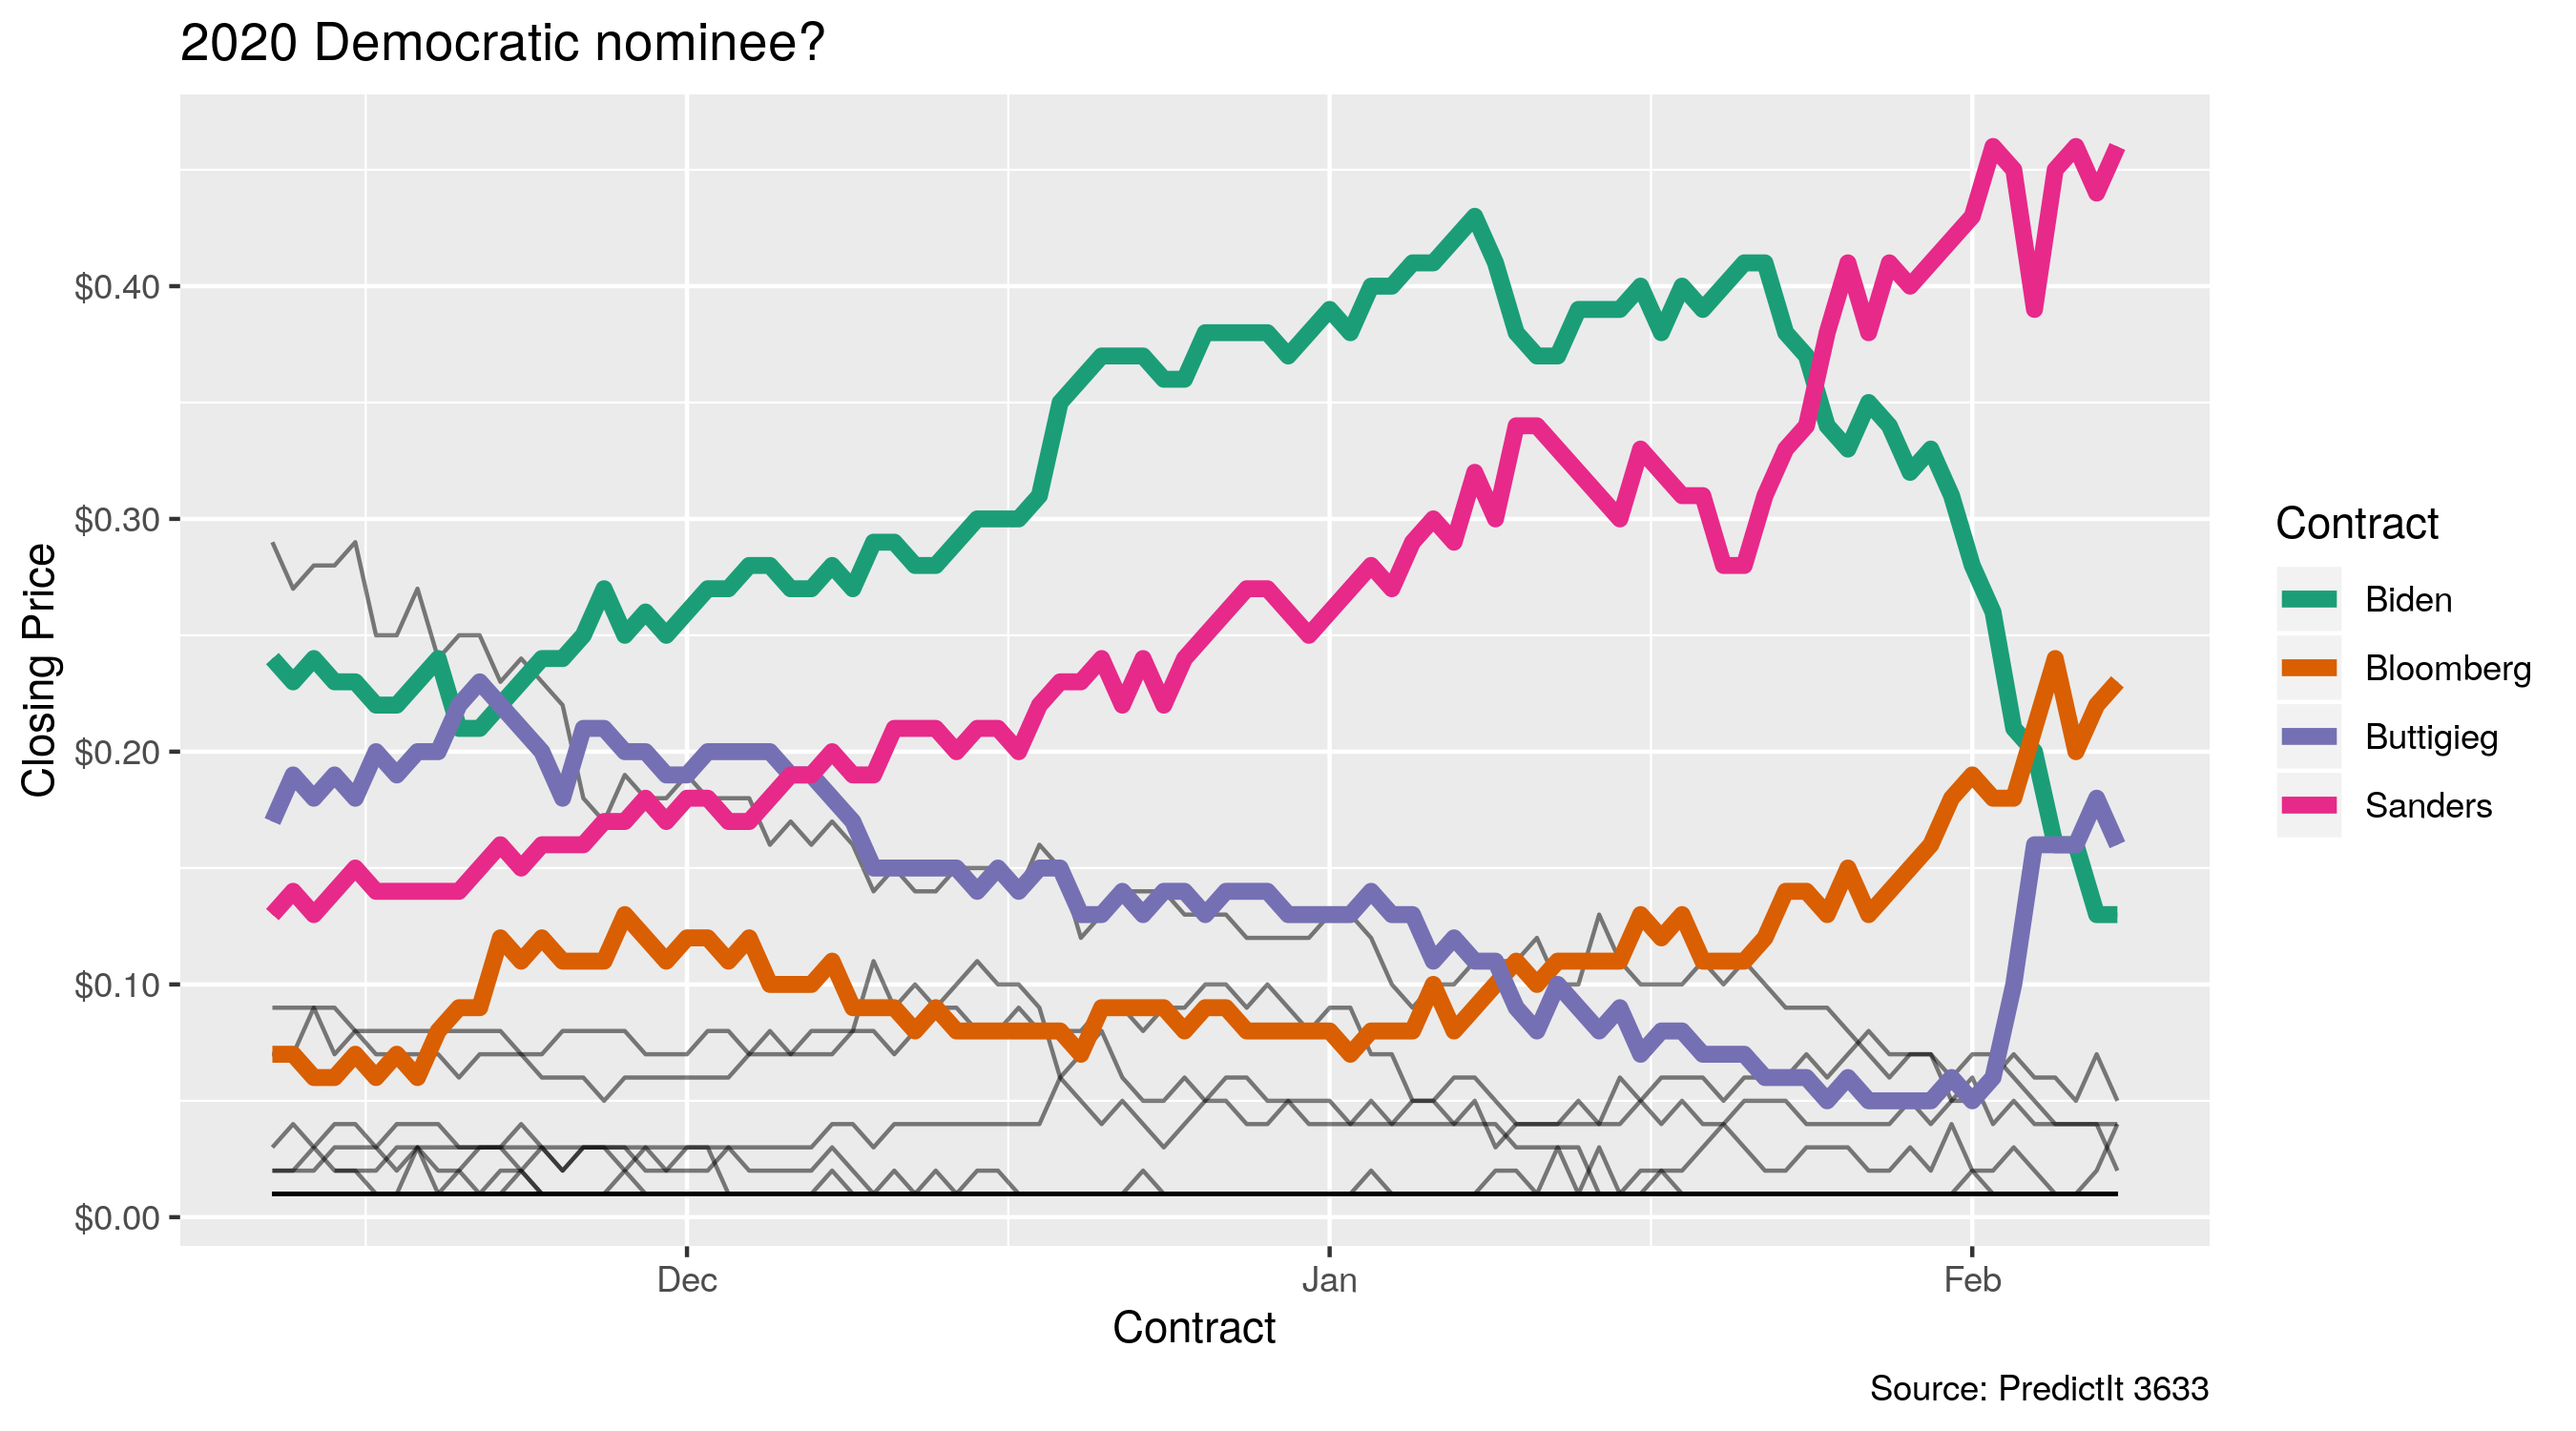
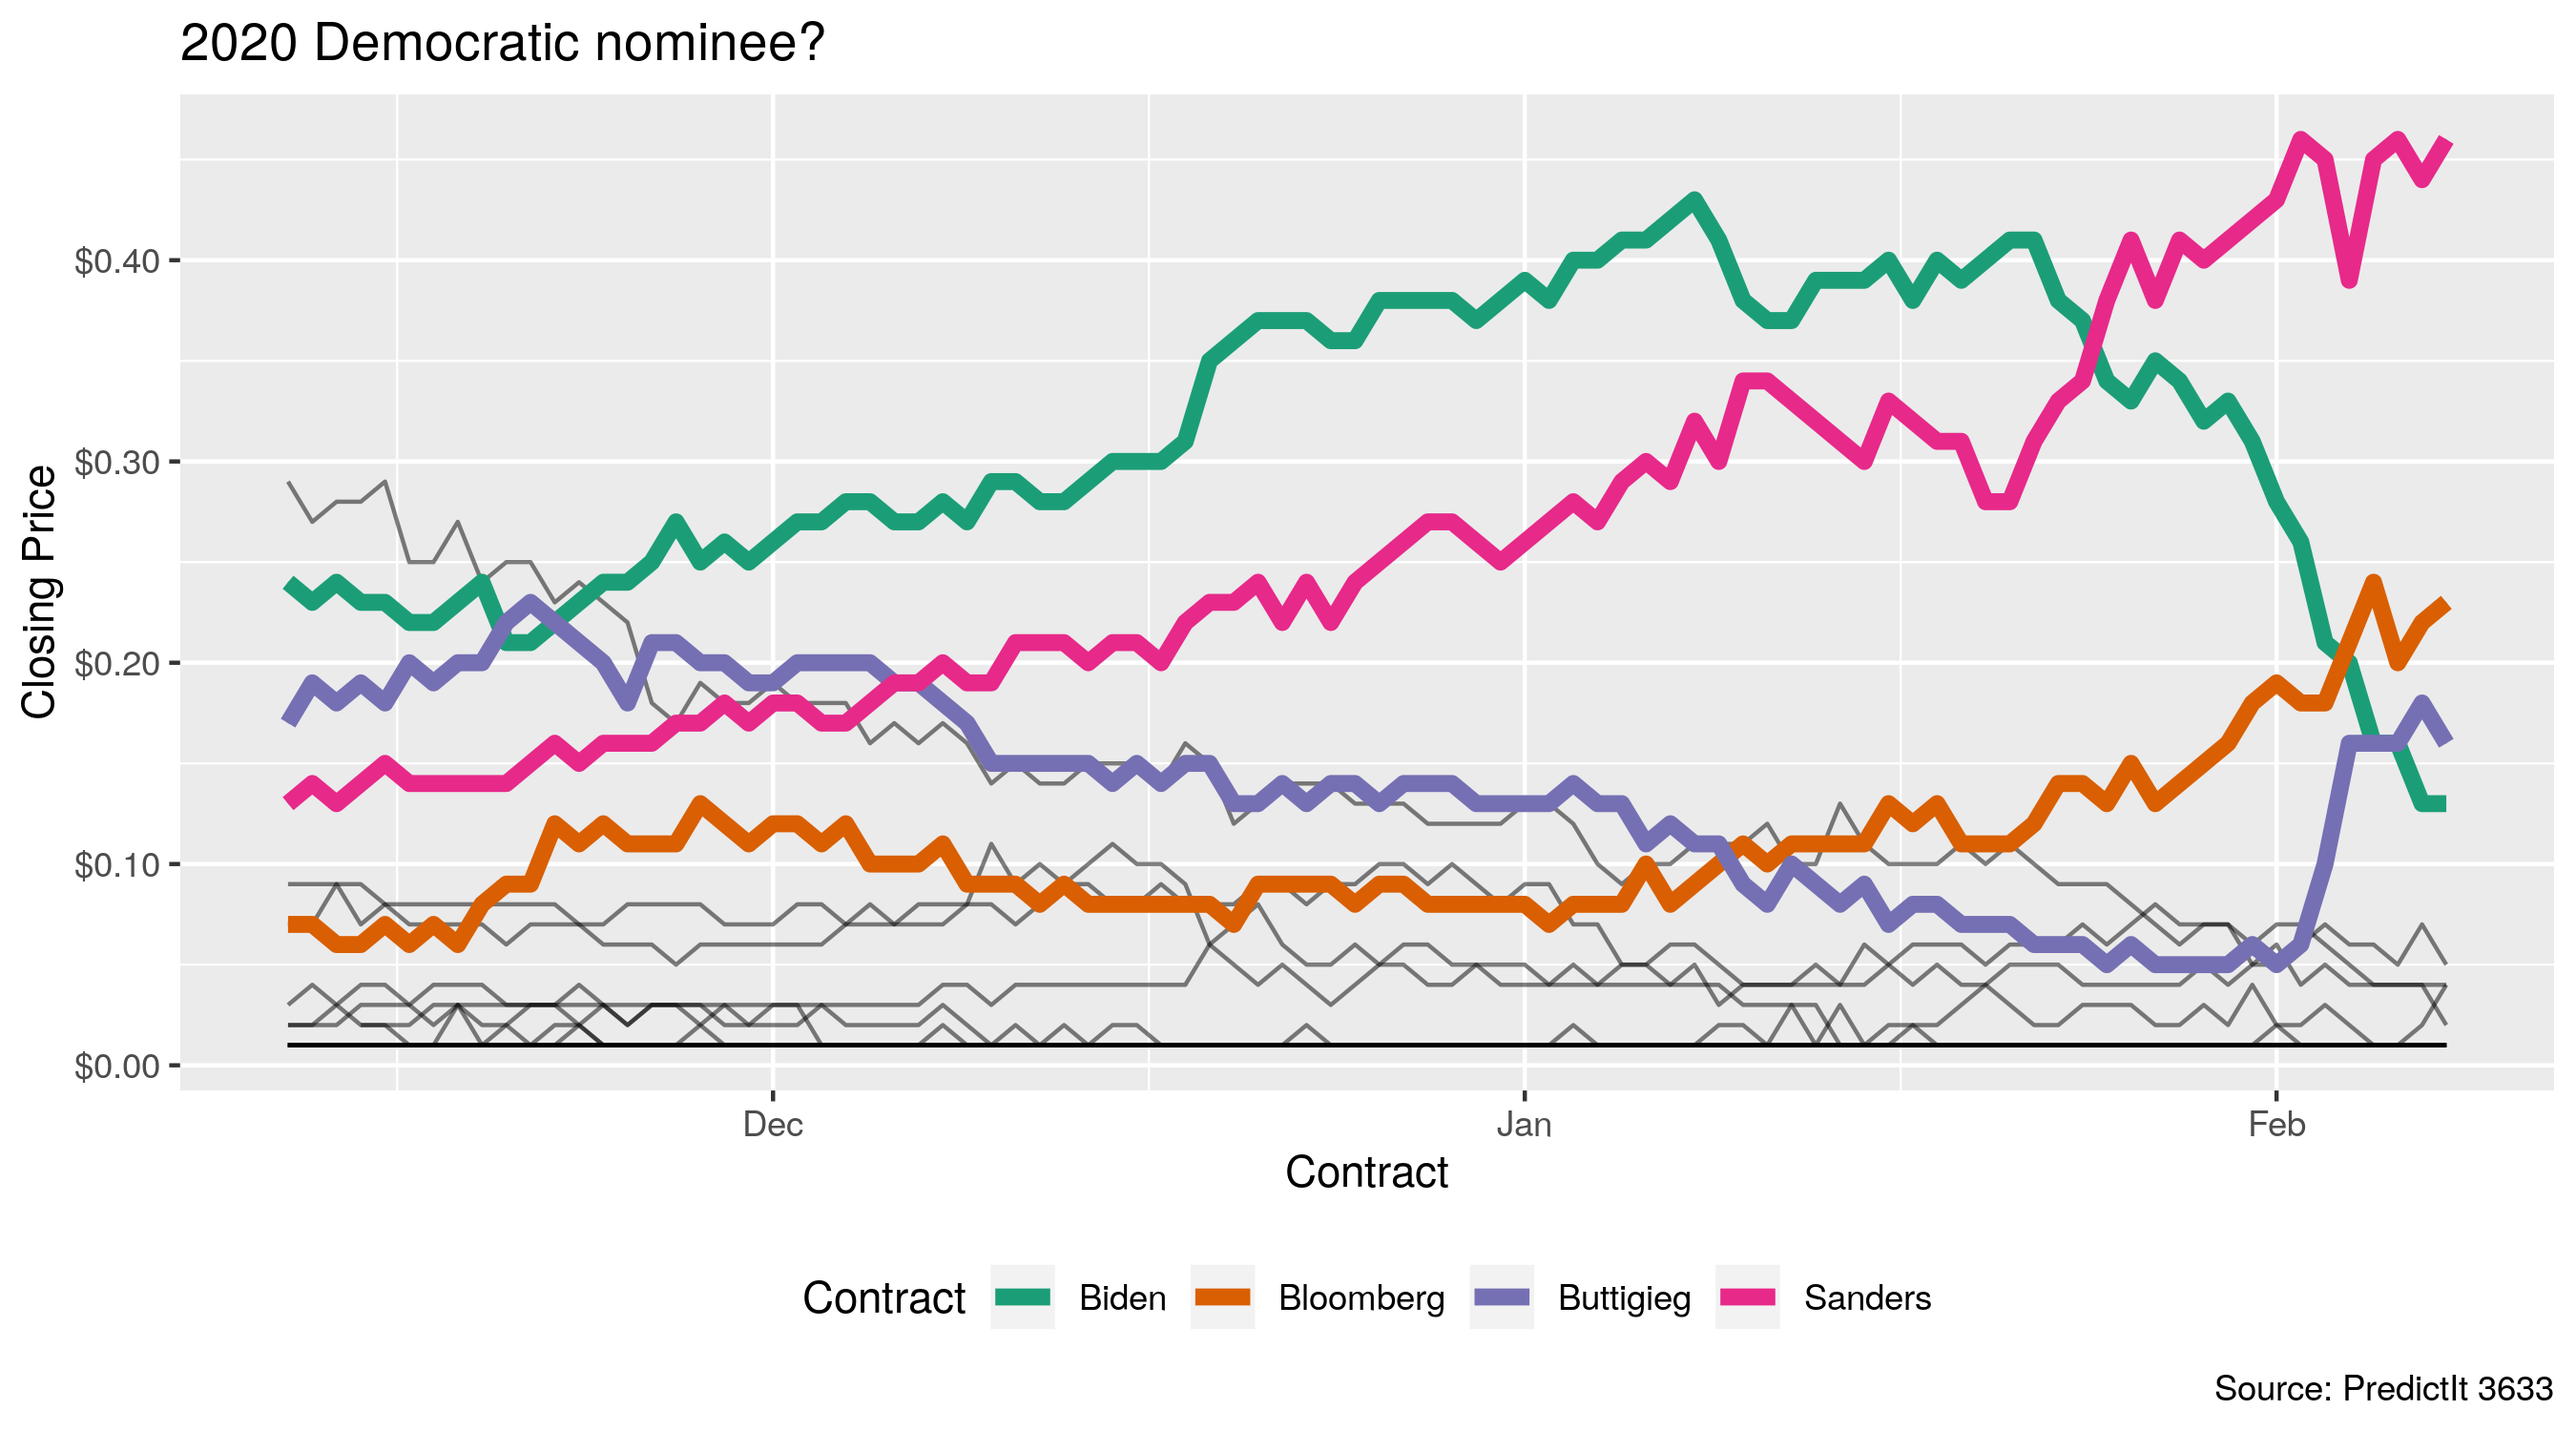
Redesign market_plot() to take data

diff --git a/README.md b/README.md
@@ -15,10 +15,11 @@ status](https://travis-ci.org/kiernann/predictr.svg?branch=master)](https://trav
 coverage](https://codecov.io/gh/kiernann/predictr/branch/master/graph/badge.svg)](https://codecov.io/gh/kiernann/predictr?branch=master)
 <!-- badges: end -->
 
-The goal of predictr is to access the price of binary contracts trading
-on the [PredictIt](https://www.predictit.org/) prediction market. The
-price of these contracts represents the crowdsourced probability of
-these events occuring.
+The goal of predictr is to access the
+[PredictIt](https://www.predictit.org/) API and determine the price of
+binary futures contracts trading on the prediction market. Data is
+returned as tidy tibbles, with unique rows for contract prices at a
+given point in time.
 
 ## Markets
 
@@ -47,32 +48,33 @@ devtools::install_github("kiernann/predictr")
 ## Usage
 
 ``` r
-predictr::market_price(6403)
+library(predictr)
+market_price(6403)
 #> # A tibble: 9 x 7
 #>   time                  mid market                      cid contract  last close
-#>   <dttm>              <int> <fct>                     <int> <ord>    <dbl> <dbl>
-#> 1 2020-02-09 12:15:47  6403 NH primary margin of vic… 20984 [0,4)     0.43  0.47
-#> 2 2020-02-09 12:15:47  6403 NH primary margin of vic… 20988 [4,5)     0.14  0.17
-#> 3 2020-02-09 12:15:47  6403 NH primary margin of vic… 20990 [5,6)     0.09  0.15
-#> 4 2020-02-09 12:15:47  6403 NH primary margin of vic… 20991 [6,7)     0.09  0.08
-#> 5 2020-02-09 12:15:47  6403 NH primary margin of vic… 20985 [7,8)     0.07  0.09
-#> 6 2020-02-09 12:15:47  6403 NH primary margin of vic… 20986 [8,9)     0.04  0.06
-#> 7 2020-02-09 12:15:47  6403 NH primary margin of vic… 20987 [9,10)    0.03  0.04
-#> 8 2020-02-09 12:15:47  6403 NH primary margin of vic… 20992 [10,11)   0.04  0.03
-#> 9 2020-02-09 12:15:47  6403 NH primary margin of vic… 20989 [11,Inf)  0.11  0.09
+#>   <dttm>              <int> <chr>                     <int> <ord>    <dbl> <dbl>
+#> 1 2020-02-09 16:11:38  6403 NH primary margin of vic… 20984 [0,4)     0.37  0.47
+#> 2 2020-02-09 16:11:38  6403 NH primary margin of vic… 20988 [4,5)     0.15  0.17
+#> 3 2020-02-09 16:11:38  6403 NH primary margin of vic… 20990 [5,6)     0.11  0.15
+#> 4 2020-02-09 16:11:38  6403 NH primary margin of vic… 20991 [6,7)     0.11  0.08
+#> 5 2020-02-09 16:11:38  6403 NH primary margin of vic… 20985 [7,8)     0.08  0.09
+#> 6 2020-02-09 16:11:38  6403 NH primary margin of vic… 20986 [8,9)     0.05  0.06
+#> 7 2020-02-09 16:11:38  6403 NH primary margin of vic… 20987 [9,10)    0.04  0.04
+#> 8 2020-02-09 16:11:38  6403 NH primary margin of vic… 20992 [10,11)   0.03  0.03
+#> 9 2020-02-09 16:11:38  6403 NH primary margin of vic… 20989 [11,Inf)  0.05  0.09
 ```
 
 Current and historical prices can be automatically plotted with
 [ggplot2](https://github.com/tidyverse/ggplot2).
 
 ``` r
-predictr::market_plot(3633, type = "line")
+market_plot(market_history(3633), color = 4)
 ```
 
 <img src="man/figures/README-plot-market-1.png" width="100%" />
 
 ``` r
-predictr::market_plot(6405, type = "bar")
+market_plot(market_price(6403))
 ```
 
 <img src="man/figures/README-plot-market-2.png" width="100%" />
